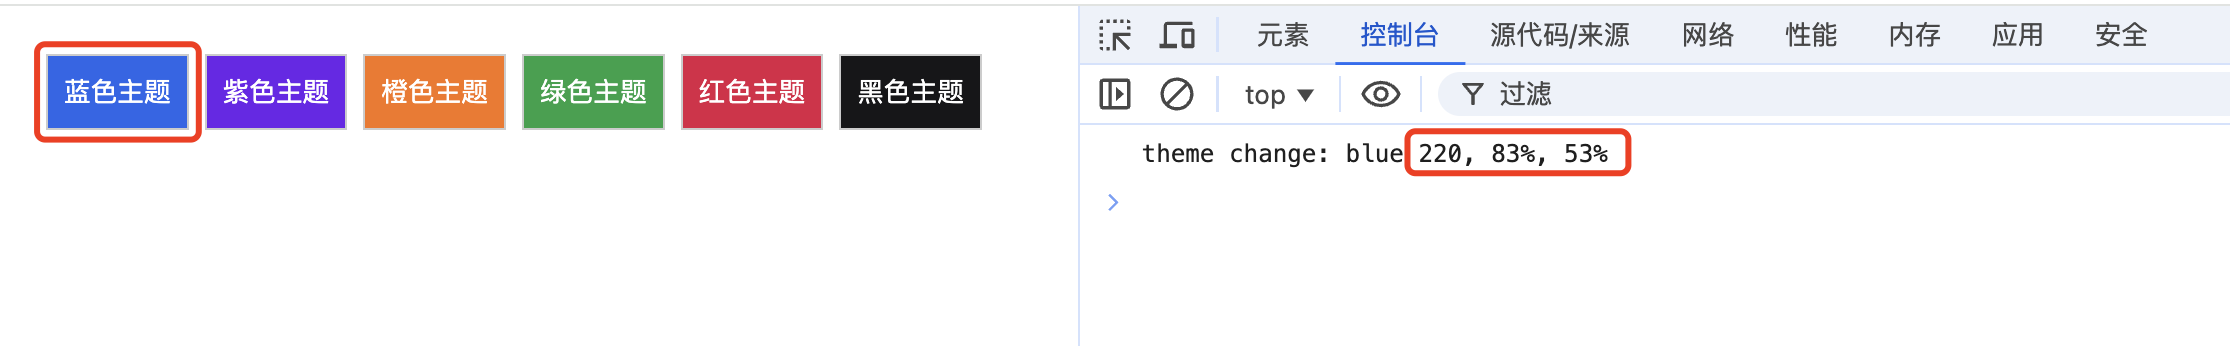
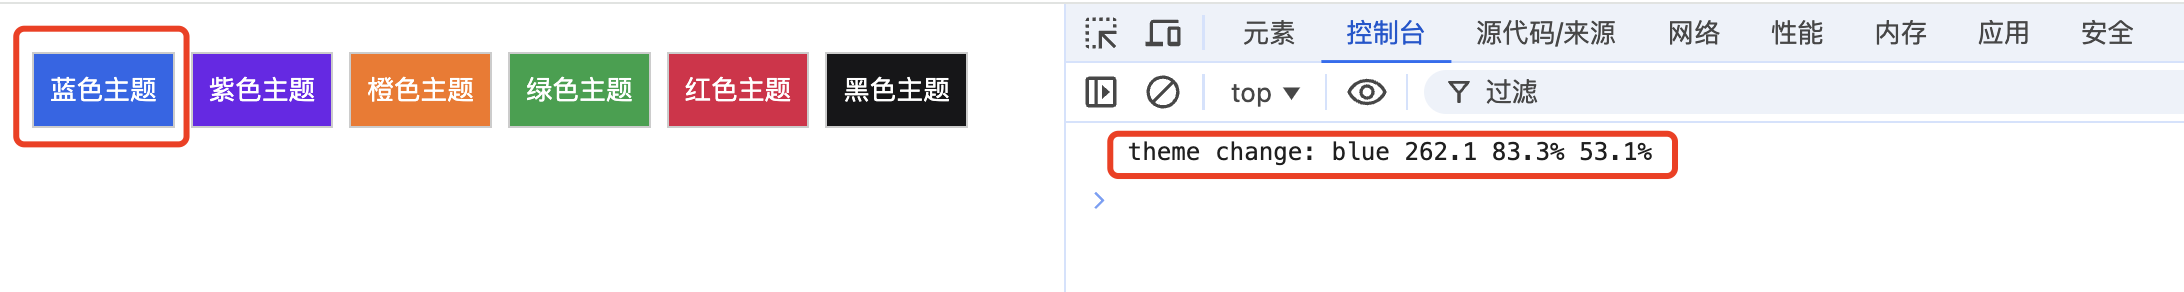
feat:日刊 0002：使用 console.log 反馈主题，提升开发体验

Changed region(s): [[0.0, 0.0616, 1.0, 0.6164], [0.0, 0.0, 1.0, 0.0308]]

diff --git a/playgournd/css/daily-0002-console-log/index.html b/playgournd/css/daily-0002-console-log/index.html
@@ -27,7 +27,7 @@
 </head>
 <body>
     <ul class="theme-list">
-        <li class="theme-item"><button style="background-color: hsl(220, 83%, 53%);"  onclick="themeChange('blue', '220, 83%, 53%')">蓝色主题</button></li>
+        <li class="theme-item"><button style="background-color: hsl(220, 83%, 53%);"  onclick="themeChange('blue', '262.1 83.3% 53.1%')">蓝色主题</button></li>
         <li class="theme-item"><button style="background-color: hsl(262.1 83.3% 53.1%);" onclick="themeChange('violet', '262.1 83.3% 57.8%')">紫色主题</button></li>
         <li class="theme-item"><button style="background-color: hsl(24.6 95% 53.1%);" onclick="themeChange('orange', '24.6 95% 53.1%')">橙色主题</button></li>
         <li class="theme-item"><button style="background-color: hsl(141, 76%, 36%);" onclick="themeChange('green', '141, 76%, 36%')">绿色主题</button></li>
@@ -38,15 +38,15 @@
         
         function themeChange(colorName, colorHslString) {
             // 修改前
-            // console.log(
-            //     `theme change: ${colorName} ${colorHslString}`
-            // )
+            console.log(
+                `theme change: ${colorName} ${colorHslString}`
+            )
             
             // 修改后
-            console.log(
-                `%c theme change: ${colorName} ${colorHslString}`,
-                `color: white; background-color: hsl(${colorHslString})`
-            );
+            // console.log(
+            //     `%c theme change: ${colorName} ${colorHslString}`,
+            //     `color: white; background-color: hsl(${colorHslString})`
+            // );
         }   
     </script>
 </body>
